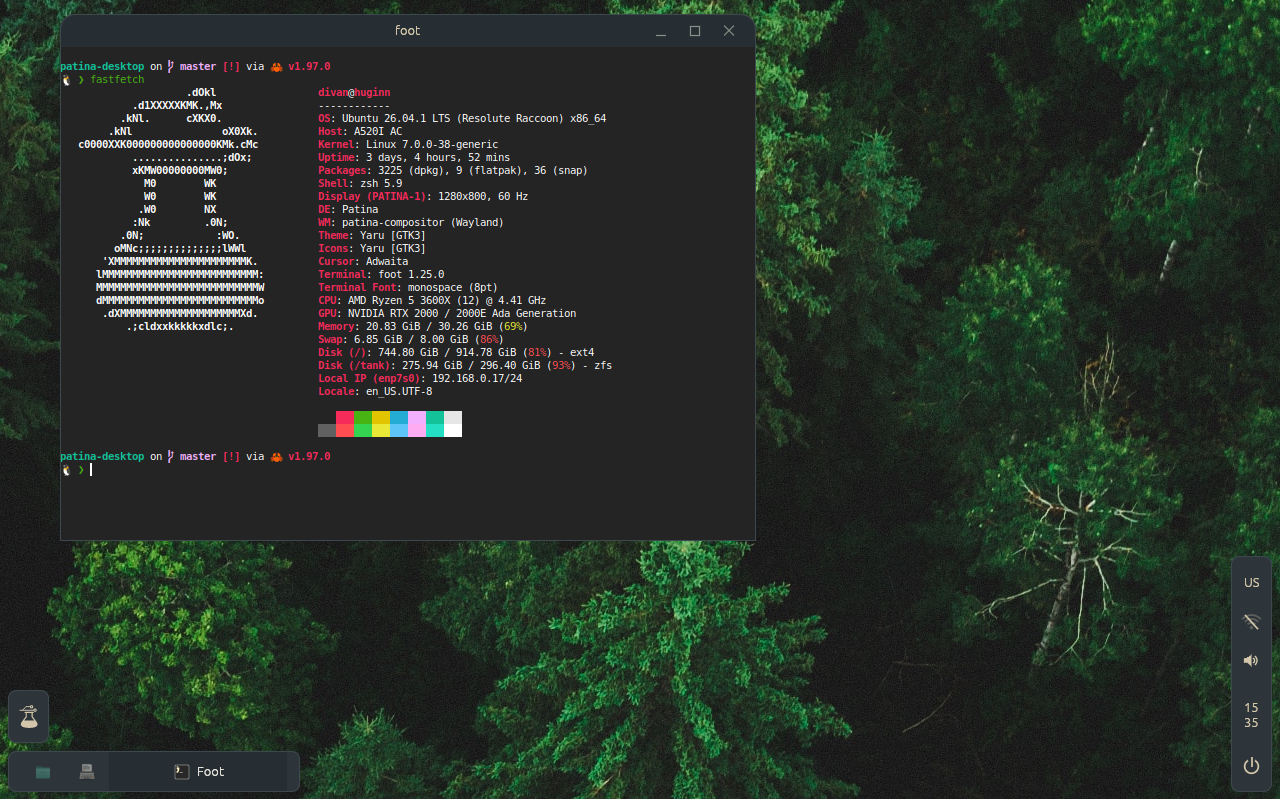
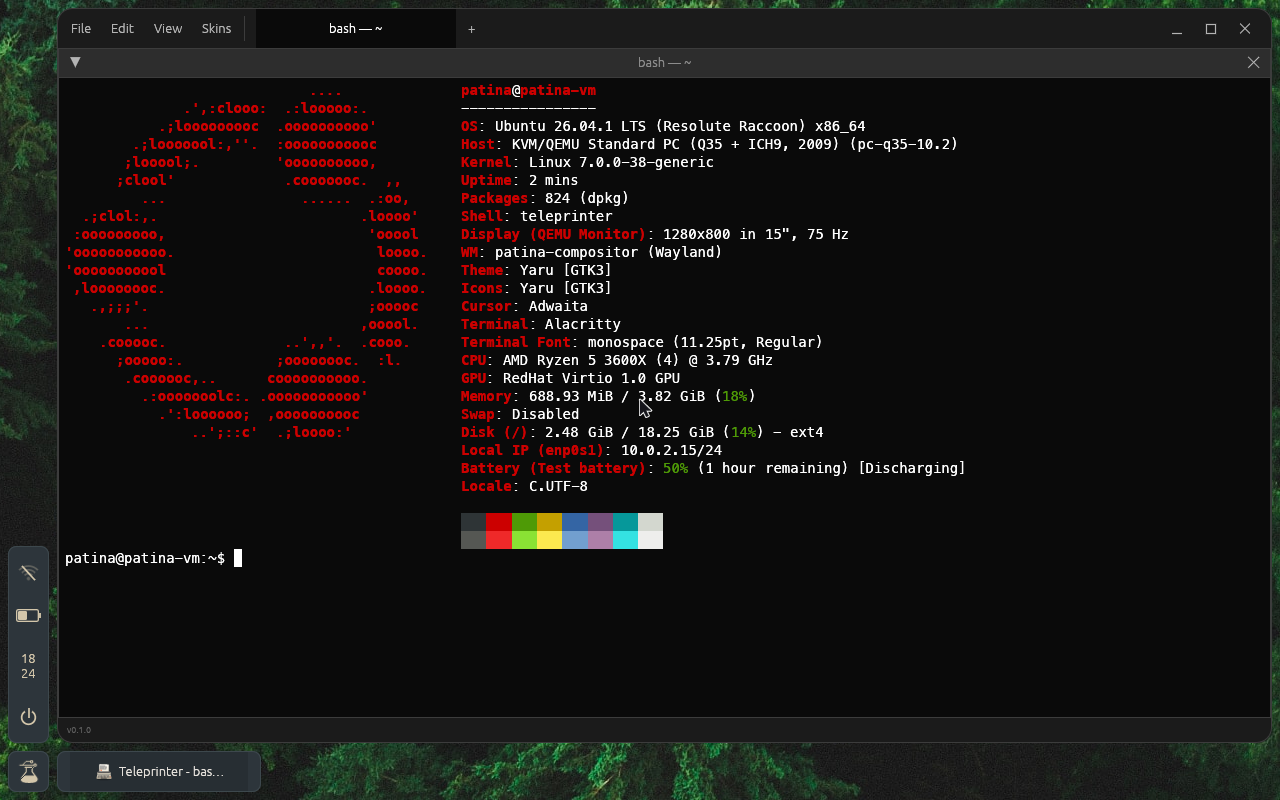
README: a new headline screenshot, of the default layout, from the Linux VM with Teleprinter running fastfetch

diff --git a/README.md b/README.md
@@ -6,7 +6,7 @@ screen, menus, a process manager and the apps it was tested with (a terminal, fi
 reader, paint, video and music), each its own small program, so one going wrong can be restarted
 without the others. Windows float, tile when you drag them to an edge, and have tabs in the bar.
 
-![The Patina desktop: With gaps on, split bar on and Everforest theme selected](docs/screenshot.png)
+![The Patina desktop: Teleprinter running fastfetch, with gaps on, the split bar in its default layout and the Everforest theme](docs/screenshot.png)
 
 **Where it runs.** It is developed and tested on **Ubuntu 26.04**, and the instructions below
 assume an Ubuntu-like system. Other Linux distributions should work, since it asks only for
